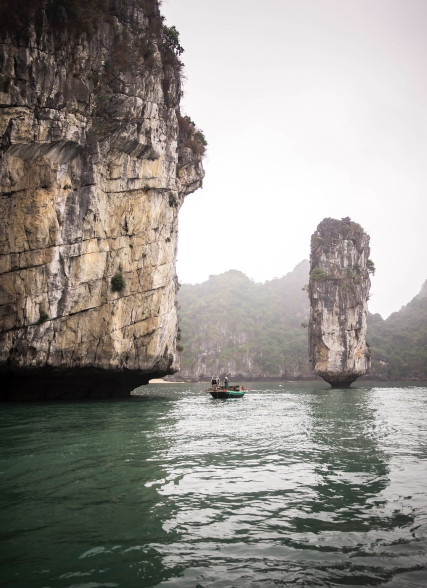
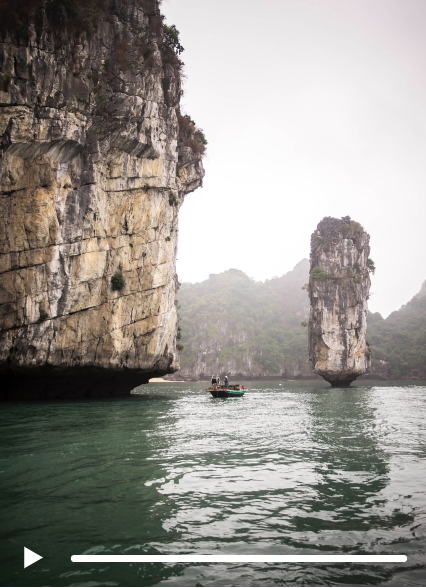
fix modal window

diff --git a/index.html b/index.html
@@ -22,11 +22,6 @@
                 <img src="img/story-modal.png" alt="story-modal" class="modal-img">
             </div>
 
-            <div class="modal-footers">
-                <img src="img/play-modal.png" alt="" style="cursor: pointer;">
-                <img src="img/line-modal.png" alt="" id="line-modal">
-            </div>
-
             <span class="close">&times;</span>
         </div>
     </div>
@@ -43,7 +38,7 @@
 
                 <div class="div-test2">
 
-                    <div class="sidebar-avatar__photo" id="modal-btn">
+                    <div class="sidebar-avatar__photo">
                     </div>
 
                     <div class="sidebar-text">
@@ -119,10 +114,10 @@
 
                 <div class="navs-cont">
                     <div class="main-nav">
-                        <a href="#"><img src="img/story.svg" alt="" class="big"></a>
-                        <a href="#"><img src="img/story2.svg" alt="" class="big"></a>
-                        <a href="#"><img src="img/story3.svg" class="hidden" alt=""></a>
-                        <a href="#"><img src="img/story4.svg" class="hidden" alt=""></a>
+                        <a href="#" class="modal-btn"><img src="img/story.svg" alt="" class="big"></a>
+                        <a href="#" class="modal-btn"><img src="img/story2.svg" alt="" class="big"></a>
+                        <a href="#" class="modal-btn"><img src="img/story3.svg" class="hidden" alt=""></a>
+                        <a href="#" class="modal-btn"><img src="img/story4.svg" class="hidden" alt=""></a>
                     </div>
                 </div>
 

diff --git a/css/modal.css b/css/modal.css
@@ -34,12 +34,11 @@
 }
 
 .close {
+    margin: 0.5rem;
     position: absolute;
     top: 0;
     right: 0;
-    margin-right: 0.7rem;
     color: #000;
-    float: right;
     font-size: 28px;
     font-weight: bold;
     cursor: pointer;
@@ -51,20 +50,6 @@
 
 .add_scroll {
     overflow: auto;
-}
-
-
-.modal-footers {
-    position: absolute;
-    bottom: 1rem;
-    width: 100%;
-    display: flex;
-    align-items: center;
-    width: 80%;
-    left: 50%;
-    transform: translate(-50%);  
-    gap: 5rem;
-    overflow: hidden;
 }
 
 
@@ -81,30 +66,19 @@
 
 @media (max-width: 1023px) {
     .modal-content {
-        width: 50vw;
+        width: 40vw;
         margin: 0 auto;
         height: auto;
         margin-top: 10vw;
     }
 
     .close {
-        font-size: 35px;
+        font-size: 1.5rem;
     }
 
-    .modal-footers {
-        left: 1rem;
-        right: 1rem;
-        transform: translate(0);
-        overflow: hidden;
-        gap: 1rem;
-    }
 
     .modal-photo img {
         width: 100%;
         height: auto;
-    }
-
-    .modal-footers img {
-        width: 100%;
     }
 }

diff --git a/text-page.html b/text-page.html
@@ -7,28 +7,11 @@
     <title>Как создавать сайты легко</title>
     <link rel="stylesheet" href="css/sidebar.css">
     <link rel="stylesheet" href="css/text-page.css">
-    <link rel="stylesheet" href="css/modal.css">
     <script src="js/burger.js" defer></script>
     <script src="js/search.js" defer></script>
-    <script src="js/modal.js" defer></script>
 </head>
 
 <body>
-    <div class="modal" id="myModal">
-        <div class="modal-content">
-
-            <div class="modal-photo">
-                <img src="img/story-modal.png" alt="story-modal" class="modal-img">
-            </div>
-
-            <div class="modal-footers">
-                <img src="img/play-modal.png" alt="" style="cursor: pointer;">
-                <img src="img/line-modal.png" alt="" id="line-modal">
-            </div>
-
-            <span class="close">&times;</span>
-        </div>
-    </div>
 
     
     <div class="sidebar">

diff --git a/search.html b/search.html
@@ -7,28 +7,11 @@
     <title>Результаты поиска</title>
     <link rel="stylesheet" href="css/sidebar.css">
     <link rel="stylesheet" href="css/search.css">
-    <link rel="stylesheet" href="css/modal.css">
-    <script src="js/burger.js" defer></script>
-    <script src="js/modal.js" defer></script>
     <script src="js/search.js" defer></script>
 </head>
 
 <body>
-    <div class="modal" id="myModal">
-        <div class="modal-content">
 
-            <div class="modal-photo">
-                <img src="img/story-modal.png" alt="story-modal" class="modal-img">
-            </div>
-
-            <div class="modal-footers">
-                <img src="img/play-modal.png" alt="" style="cursor: pointer;">
-                <img src="img/line-modal.png" alt="" id="line-modal">
-            </div>
-
-            <span class="close">&times;</span>
-        </div>
-    </div>
 
     <div class="sidebar">
 

diff --git a/js/modal.js b/js/modal.js
@@ -1,16 +1,18 @@
 var modal = document.getElementById('myModal');
-var btn = document.getElementById('modal-btn');
+var btns = document.querySelectorAll('.modal-btn')
 var span = document.getElementsByClassName("close")[0];
 
-btn.onclick = function () {
-    modal.style.display = "block";
-    document.body.classList.remove('add_scroll');
-    document.body.classList.add('no-scroll');
-    modal.classList.remove('show');
-    setTimeout(() => {
-        modal.classList.add('show')
-    }, 10)
-}
+btns.forEach(btn => {
+    btn.onclick = function () {
+        modal.style.display = "block";
+        document.body.classList.remove('add_scroll');
+        document.body.classList.add('no-scroll');
+        modal.classList.remove('show');
+        setTimeout(() => {
+            modal.classList.add('show')
+        }, 10)
+    }
+})
 
 span.onclick = function () {
     document.body.classList.remove('no-scroll');

diff --git a/my-projects.html b/my-projects.html
@@ -7,28 +7,11 @@
     <title>Мои проекты</title>
     <link rel="stylesheet" href="css/sidebar.css">
     <link rel="stylesheet" href="css/my-projects.css">
-    <link rel="stylesheet" href="css/modal.css">
     <script src="js/burger.js" defer></script>
     <script src="js/search.js" defer></script>
-    <script src="js/modal.js" defer></script>
 </head>
 
 <body>
-    <div class="modal" id="myModal">
-        <div class="modal-content">
-
-            <div class="modal-photo">
-                <img src="img/story-modal.png" alt="story-modal" class="modal-img">
-            </div>
-
-            <div class="modal-footers">
-                <img src="img/play-modal.png" alt="" style="cursor: pointer;">
-                <img src="img/line-modal.png" alt="" id="line-modal">
-            </div>
-
-            <span class="close">&times;</span>
-        </div>
-    </div>
 
     <div class="sidebar">
 

diff --git a/profile.html b/profile.html
@@ -6,27 +6,10 @@
     <title>Профиль</title>
     <link rel="stylesheet" href="css/sidebar.css">
     <link rel="stylesheet" href="css/profile.css">
-    <link rel="stylesheet" href="css/modal.css">
     <script src="js/burger.js" defer></script>
     <script src="js/file-input.js" defer></script>
-    <script src="js/modal.js" defer></script>
 </head>
 <body>
-    <div class="modal" id="myModal">
-        <div class="modal-content">
-
-            <div class="modal-photo">
-                <img src="img/story-modal.png" alt="story-modal" class="modal-img">
-            </div>
-
-            <div class="modal-footers">
-                <img src="img/play-modal.png" alt="" style="cursor: pointer;">
-                <img src="img/line-modal.png" alt="" id="line-modal">
-            </div>
-
-            <span class="close">&times;</span>
-        </div>
-    </div>
 
     <div class="sidebar">
 

diff --git a/css/sidebar.css b/css/sidebar.css
@@ -133,7 +133,6 @@ body.no-scroll {
     transform: translate(-50%);
     width: 6.2vw;
     height: 6.2vw;
-    cursor: pointer;
 }
 
 .div-test2 {
